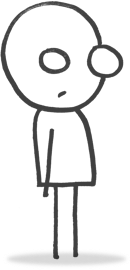
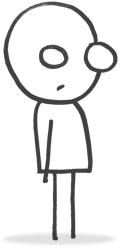
Copy & Little Guy Changes
Changed “this” in greeting to lowercase, added “(PDF)” to resume link
for accessibility, and made a properly sized asset for Little Guy.

diff --git a/index.html b/index.html
@@ -40,11 +40,11 @@
 	<div class="grid-container">
 		<div class="prefix-10 grid-80 suffix-10">
 			<div class="homePageContent">
-				<h1>Yes, This is Dave.</h1>
+				<h1>Yes, this is Dave.</h1>
 				<p>I'm a designer, musician, tv watcher, dog lover, beer drinker, and human. I'm in the HCI Group at <a href="http://hci.arc.nasa.gov/">NASA Ames</a> in Mountain View, California and I'm a graduate of <a href="https://www.hcii.cmu.edu/">Carnegie Mellon University</a>.</p>
 			<p>I have no idea what I'm doing.</p>
 				<div class="notesSection">
-					<p>Read more <a href="about.html">about me</a>, download my <a href="resume.pdf">resume</a>, or say hello through <a href="mailto: dave@luetger.com">email</a>, <a href="https://twitter.com/dluetger">Twitter</a>, or <a href="https://www.linkedin.com/in/davidluetger">LinkedIn</a>.</p>
+					<p>Read more <a href="about.html">about me</a>, download my <a href="resume.pdf">resume (PDF)</a>, or say hello through <a href="mailto: dave@luetger.com">email</a>, <a href="https://twitter.com/dluetger">Twitter</a>, or <a href="https://www.linkedin.com/in/davidluetger">LinkedIn</a>.</p>
 				</div>	
 			</div>
 		</div>
